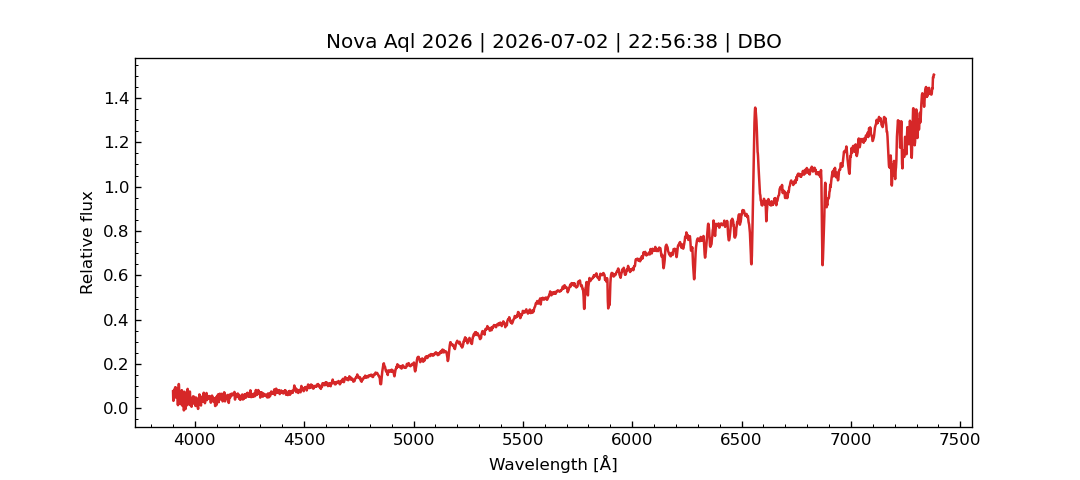
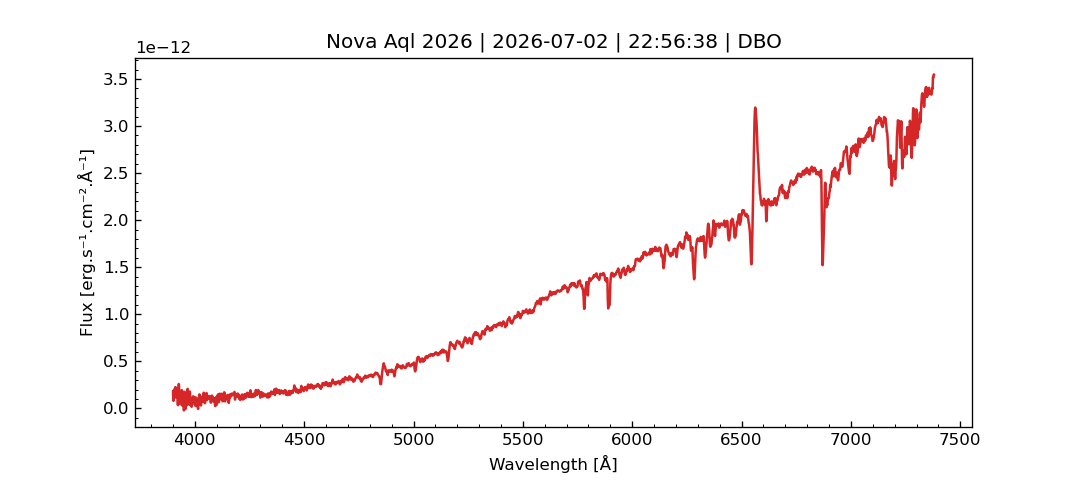
*

diff --git a/novaaql2026.html b/novaaql2026.html
@@ -76,9 +76,9 @@
     <div class="card">
       <div class="card-body">
 
-        <p class="card-text">Number of spectra:   2</p>
+        <p class="card-text">Number of spectra:   4</p>
 <p class="card-text">First spectrum:   2026-07-02</p>
-<p class="card-text">Last spectrum:   2026-07-02</p>
+<p class="card-text">Last spectrum:   2026-07-03</p>
 <br>
 <p class="card-text" style="margin-top:0.36cm;"><i>send spectra to francoismathieu.teyssier [at] gmail.com & arasdatabase [at] gmail.com</i></p>
       </div>
@@ -135,6 +135,36 @@
       <td><svg xmlns="http://www.w3.org/2000/svg" width="5" height="16" fill="#151B8D" class="bi bi-square-fill" viewBox="1 0 5 16"><path d="M0 2a2 2 0 0 1 2-2h12a2 2 0 0 1 2 2v12a2 2 0 0 1-2 2H2a2 2 0 0 1-2-2V2z"/></svg><svg xmlns="http://www.w3.org/2000/svg" width="5" height="16" fill="#4AA02C" class="bi bi-square-fill" viewBox="1 0 5 16"><path d="M0 2a2 2 0 0 1 2-2h12a2 2 0 0 1 2 2v12a2 2 0 0 1-2 2H2a2 2 0 0 1-2-2V2z"/></svg><svg xmlns="http://www.w3.org/2000/svg" width="5" height="16" fill="#EAC117" class="bi bi-square-fill" viewBox="1 0 5 16"><path d="M0 2a2 2 0 0 1 2-2h12a2 2 0 0 1 2 2v12a2 2 0 0 1-2 2H2a2 2 0 0 1-2-2V2z"/></svg><svg xmlns="http://www.w3.org/2000/svg" width="5" height="16" fill="#E42217" class="bi bi-square-fill" viewBox="1 0 5 16"><path d="M0 2a2 2 0 0 1 2-2h12a2 2 0 0 1 2 2v12a2 2 0 0 1-2 2H2a2 2 0 0 1-2-2V2z"/></svg><svg xmlns="http://www.w3.org/2000/svg" width="5" height="16" fill="#8C001A" class="bi bi-square-fill" viewBox="1 0 5 16"><path d="M0 2a2 2 0 0 1 2-2h12a2 2 0 0 1 2 2v12a2 2 0 0 1-2 2H2a2 2 0 0 1-2-2V2z"/></svg></td>
       <td><a href="spectra/asdb_novaaql2026_20260702_988.fit" download target="_blank"><svg width="1em" height="1em" viewBox="0 0 16 16" class="bi bi-download" fill="currentColor" xmlns="http://www.w3.org/2000/svg"><path fill-rule="evenodd" d="M.5 8a.5.5 0 0 1 .5.5V12a1 1 0 0 0 1 1h12a1 1 0 0 0 1-1V8.5a.5.5 0 0 1 1 0V12a2 2 0 0 1-2 2H2a2 2 0 0 1-2-2V8.5A.5.5 0 0 1 .5 8z"/><path fill-rule="evenodd" d="M5 7.5a.5.5 0 0 1 .707 0L8 9.793 10.293 7.5a.5.5 0 1 1 .707.707l-2.646 2.647a.5.5 0 0 1-.708 0L5 8.207A.5.5 0 0 1 5 7.5z"/><path fill-rule="evenodd" d="M8 1a.5.5 0 0 1 .5.5v8a.5.5 0 0 1-1 0v-8A.5.5 0 0 1 8 1z"/></svg></a></td>
       <td><a href="figures/asdb_novaaql2026_20260702_988.png" target="_blank"><svg width="1em" height="1em" viewBox="0 0 16 16" class="bi bi-eye" fill="currentColor" xmlns="http://www.w3.org/2000/svg"><path fill-rule="evenodd" d="M16 8s-3-5.5-8-5.5S0 8 0 8s3 5.5 8 5.5S16 8 16 8zM1.173 8a13.134 13.134 0 0 0 1.66 2.043C4.12 11.332 5.88 12.5 8 12.5c2.12 0 3.879-1.168 5.168-2.457A13.134 13.134 0 0 0 14.828 8a13.133 13.133 0 0 0-1.66-2.043C11.879 4.668 10.119 3.5 8 3.5c-2.12 0-3.879 1.168-5.168 2.457A13.133 13.133 0 0 0 1.172 8z"/><path fill-rule="evenodd" d="M8 5.5a2.5 2.5 0 1 0 0 5 2.5 2.5 0 0 0 0-5zM4.5 8a3.5 3.5 0 1 1 7 0 3.5 3.5 0 0 1-7 0z"/></svg></a></td>
+      <td></td>
+    </tr>
+    <tr>
+      <td>2026-07-02</td>
+      <td>22:56</td>
+      <td>61224.456</td>
+      <td>DBO</td>
+      <td>WCO-UK</td>
+      <td>1164</td>
+      <td><svg xmlns="http://www.w3.org/2000/svg" width="5" height="16" fill="#007bff" class="bi bi-square-fill" viewBox="1 0 5 16"><path d="M0 2a2 2 0 0 1 2-2h12a2 2 0 0 1 2 2v12a2 2 0 0 1-2 2H2a2 2 0 0 1-2-2V2z"/></svg><svg xmlns="http://www.w3.org/2000/svg" width="5" height="16" fill="#007bff" class="bi bi-square-fill" viewBox="1 0 5 16"><path d="M0 2a2 2 0 0 1 2-2h12a2 2 0 0 1 2 2v12a2 2 0 0 1-2 2H2a2 2 0 0 1-2-2V2z"/></svg></td>
+      <td>3900</td>
+      <td>7381</td>
+      <td><svg xmlns="http://www.w3.org/2000/svg" width="5" height="16" fill="#151B8D" class="bi bi-square-fill" viewBox="1 0 5 16"><path d="M0 2a2 2 0 0 1 2-2h12a2 2 0 0 1 2 2v12a2 2 0 0 1-2 2H2a2 2 0 0 1-2-2V2z"/></svg><svg xmlns="http://www.w3.org/2000/svg" width="5" height="16" fill="#4AA02C" class="bi bi-square-fill" viewBox="1 0 5 16"><path d="M0 2a2 2 0 0 1 2-2h12a2 2 0 0 1 2 2v12a2 2 0 0 1-2 2H2a2 2 0 0 1-2-2V2z"/></svg><svg xmlns="http://www.w3.org/2000/svg" width="5" height="16" fill="#EAC117" class="bi bi-square-fill" viewBox="1 0 5 16"><path d="M0 2a2 2 0 0 1 2-2h12a2 2 0 0 1 2 2v12a2 2 0 0 1-2 2H2a2 2 0 0 1-2-2V2z"/></svg><svg xmlns="http://www.w3.org/2000/svg" width="5" height="16" fill="#E42217" class="bi bi-square-fill" viewBox="1 0 5 16"><path d="M0 2a2 2 0 0 1 2-2h12a2 2 0 0 1 2 2v12a2 2 0 0 1-2 2H2a2 2 0 0 1-2-2V2z"/></svg></td>
+      <td><a href="spectra/asdb_novaaql2026_20260702_956.fit" download target="_blank"><svg width="1em" height="1em" viewBox="0 0 16 16" class="bi bi-download" fill="currentColor" xmlns="http://www.w3.org/2000/svg"><path fill-rule="evenodd" d="M.5 8a.5.5 0 0 1 .5.5V12a1 1 0 0 0 1 1h12a1 1 0 0 0 1-1V8.5a.5.5 0 0 1 1 0V12a2 2 0 0 1-2 2H2a2 2 0 0 1-2-2V8.5A.5.5 0 0 1 .5 8z"/><path fill-rule="evenodd" d="M5 7.5a.5.5 0 0 1 .707 0L8 9.793 10.293 7.5a.5.5 0 1 1 .707.707l-2.646 2.647a.5.5 0 0 1-.708 0L5 8.207A.5.5 0 0 1 5 7.5z"/><path fill-rule="evenodd" d="M8 1a.5.5 0 0 1 .5.5v8a.5.5 0 0 1-1 0v-8A.5.5 0 0 1 8 1z"/></svg></a></td>
+      <td><a href="figures/asdb_novaaql2026_20260702_956.png" target="_blank"><svg width="1em" height="1em" viewBox="0 0 16 16" class="bi bi-eye" fill="currentColor" xmlns="http://www.w3.org/2000/svg"><path fill-rule="evenodd" d="M16 8s-3-5.5-8-5.5S0 8 0 8s3 5.5 8 5.5S16 8 16 8zM1.173 8a13.134 13.134 0 0 0 1.66 2.043C4.12 11.332 5.88 12.5 8 12.5c2.12 0 3.879-1.168 5.168-2.457A13.134 13.134 0 0 0 14.828 8a13.133 13.133 0 0 0-1.66-2.043C11.879 4.668 10.119 3.5 8 3.5c-2.12 0-3.879 1.168-5.168 2.457A13.133 13.133 0 0 0 1.172 8z"/><path fill-rule="evenodd" d="M8 5.5a2.5 2.5 0 1 0 0 5 2.5 2.5 0 0 0 0-5zM4.5 8a3.5 3.5 0 1 1 7 0 3.5 3.5 0 0 1-7 0z"/></svg></a></td>
+      <td></td>
+    </tr>
+    <tr>
+      <td>2026-07-03</td>
+      <td>03:44</td>
+      <td>61224.656</td>
+      <td>KSH</td>
+      <td>OAK-US</td>
+      <td>1000</td>
+      <td><svg xmlns="http://www.w3.org/2000/svg" width="5" height="16" fill="#007bff" class="bi bi-square-fill" viewBox="1 0 5 16"><path d="M0 2a2 2 0 0 1 2-2h12a2 2 0 0 1 2 2v12a2 2 0 0 1-2 2H2a2 2 0 0 1-2-2V2z"/></svg><svg xmlns="http://www.w3.org/2000/svg" width="5" height="16" fill="#007bff" class="bi bi-square-fill" viewBox="1 0 5 16"><path d="M0 2a2 2 0 0 1 2-2h12a2 2 0 0 1 2 2v12a2 2 0 0 1-2 2H2a2 2 0 0 1-2-2V2z"/></svg></td>
+      <td>3850</td>
+      <td>7198</td>
+      <td><svg xmlns="http://www.w3.org/2000/svg" width="5" height="16" fill="#151B8D" class="bi bi-square-fill" viewBox="1 0 5 16"><path d="M0 2a2 2 0 0 1 2-2h12a2 2 0 0 1 2 2v12a2 2 0 0 1-2 2H2a2 2 0 0 1-2-2V2z"/></svg><svg xmlns="http://www.w3.org/2000/svg" width="5" height="16" fill="#4AA02C" class="bi bi-square-fill" viewBox="1 0 5 16"><path d="M0 2a2 2 0 0 1 2-2h12a2 2 0 0 1 2 2v12a2 2 0 0 1-2 2H2a2 2 0 0 1-2-2V2z"/></svg><svg xmlns="http://www.w3.org/2000/svg" width="5" height="16" fill="#EAC117" class="bi bi-square-fill" viewBox="1 0 5 16"><path d="M0 2a2 2 0 0 1 2-2h12a2 2 0 0 1 2 2v12a2 2 0 0 1-2 2H2a2 2 0 0 1-2-2V2z"/></svg><svg xmlns="http://www.w3.org/2000/svg" width="5" height="16" fill="#E42217" class="bi bi-square-fill" viewBox="1 0 5 16"><path d="M0 2a2 2 0 0 1 2-2h12a2 2 0 0 1 2 2v12a2 2 0 0 1-2 2H2a2 2 0 0 1-2-2V2z"/></svg></td>
+      <td><a href="spectra/asdb_novaaql2026_20260703_155.fit" download target="_blank"><svg width="1em" height="1em" viewBox="0 0 16 16" class="bi bi-download" fill="currentColor" xmlns="http://www.w3.org/2000/svg"><path fill-rule="evenodd" d="M.5 8a.5.5 0 0 1 .5.5V12a1 1 0 0 0 1 1h12a1 1 0 0 0 1-1V8.5a.5.5 0 0 1 1 0V12a2 2 0 0 1-2 2H2a2 2 0 0 1-2-2V8.5A.5.5 0 0 1 .5 8z"/><path fill-rule="evenodd" d="M5 7.5a.5.5 0 0 1 .707 0L8 9.793 10.293 7.5a.5.5 0 1 1 .707.707l-2.646 2.647a.5.5 0 0 1-.708 0L5 8.207A.5.5 0 0 1 5 7.5z"/><path fill-rule="evenodd" d="M8 1a.5.5 0 0 1 .5.5v8a.5.5 0 0 1-1 0v-8A.5.5 0 0 1 8 1z"/></svg></a></td>
+      <td><a href="figures/asdb_novaaql2026_20260703_155.png" target="_blank"><svg width="1em" height="1em" viewBox="0 0 16 16" class="bi bi-eye" fill="currentColor" xmlns="http://www.w3.org/2000/svg"><path fill-rule="evenodd" d="M16 8s-3-5.5-8-5.5S0 8 0 8s3 5.5 8 5.5S16 8 16 8zM1.173 8a13.134 13.134 0 0 0 1.66 2.043C4.12 11.332 5.88 12.5 8 12.5c2.12 0 3.879-1.168 5.168-2.457A13.134 13.134 0 0 0 14.828 8a13.133 13.133 0 0 0-1.66-2.043C11.879 4.668 10.119 3.5 8 3.5c-2.12 0-3.879 1.168-5.168 2.457A13.133 13.133 0 0 0 1.172 8z"/><path fill-rule="evenodd" d="M8 5.5a2.5 2.5 0 1 0 0 5 2.5 2.5 0 0 0 0-5zM4.5 8a3.5 3.5 0 1 1 7 0 3.5 3.5 0 0 1-7 0z"/></svg></a></td>
       <td></td>
     </tr>
   </tbody>

diff --git a/novae.html b/novae.html
@@ -70,8 +70,8 @@
  <p class="card-text">Details on stars:   <a href="http://asd.gsfc.nasa.gov/Koji.Mukai/novae/novae.html">Koji's List of Recent Galactic Novae</a></p>
  <style>table {text-align: center;}table thead th {text-align: center;}</style>
 <p class="card-text">Number of stars: 83
-</p><p class="card-text">Number of spectra: 4796
-</p><p class="card-text">Last update: 2026-07-03, 07:14</p>
+</p><p class="card-text">Number of spectra: 4798
+</p><p class="card-text">Last update: 2026-07-03, 20:29</p>
 <br><br>
 <a href="observers.html" class="btn btn-secondary">Observers</a>
         <a href="observatories.html" class="btn btn-secondary">Observatories</a>
@@ -1023,10 +1023,10 @@
       <td>+12:03:53.60</td>
       <td></td>
       <td>AT 2026rdg</td>
-      <td>2</td>
+      <td>4</td>
       <td>2026-07-02</td>
-      <td>2026-07-02</td>
-      <td><script>var date1, date2;date1 = new Date();date2 = new Date( "2026-07-02 00:00:00" );var res = Math.abs(date1 - date2) / 1000;var days = Math.floor(res / 86400);document.write(days);</script></td>
+      <td>2026-07-03</td>
+      <td><script>var date1, date2;date1 = new Date();date2 = new Date( "2026-07-03 00:00:00" );var res = Math.abs(date1 - date2) / 1000;var days = Math.floor(res / 86400);document.write(days);</script></td>
     </tr>
   </tbody>
 </table><br><br>

diff --git a/dwarf_novae.html b/dwarf_novae.html
@@ -71,7 +71,7 @@
  <style>table {text-align: center;}table thead th {text-align: center;}</style>
 <p class="card-text">Number of stars: 46
 </p><p class="card-text">Number of spectra: 427
-</p><p class="card-text">Last update: 2026-07-03, 07:14</p>
+</p><p class="card-text">Last update: 2026-07-03, 20:29</p>
 <br><br>
 <a href="observers.html" class="btn btn-secondary">Observers</a>
         <a href="observatories.html" class="btn btn-secondary">Observatories</a>

diff --git a/symbiotics.html b/symbiotics.html
@@ -76,7 +76,7 @@
  <style>table {text-align: center;}table thead th {text-align: center;}</style>
 <p class="card-text">Number of stars: 115
 </p><p class="card-text">Number of spectra: 11884
-</p><p class="card-text">Last update: 2026-07-03, 07:14</p>
+</p><p class="card-text">Last update: 2026-07-03, 20:29</p>
 <br><br>
 <a href="observers.html" class="btn btn-secondary">Observers</a>
         <a href="observatories.html" class="btn btn-secondary">Observatories</a>